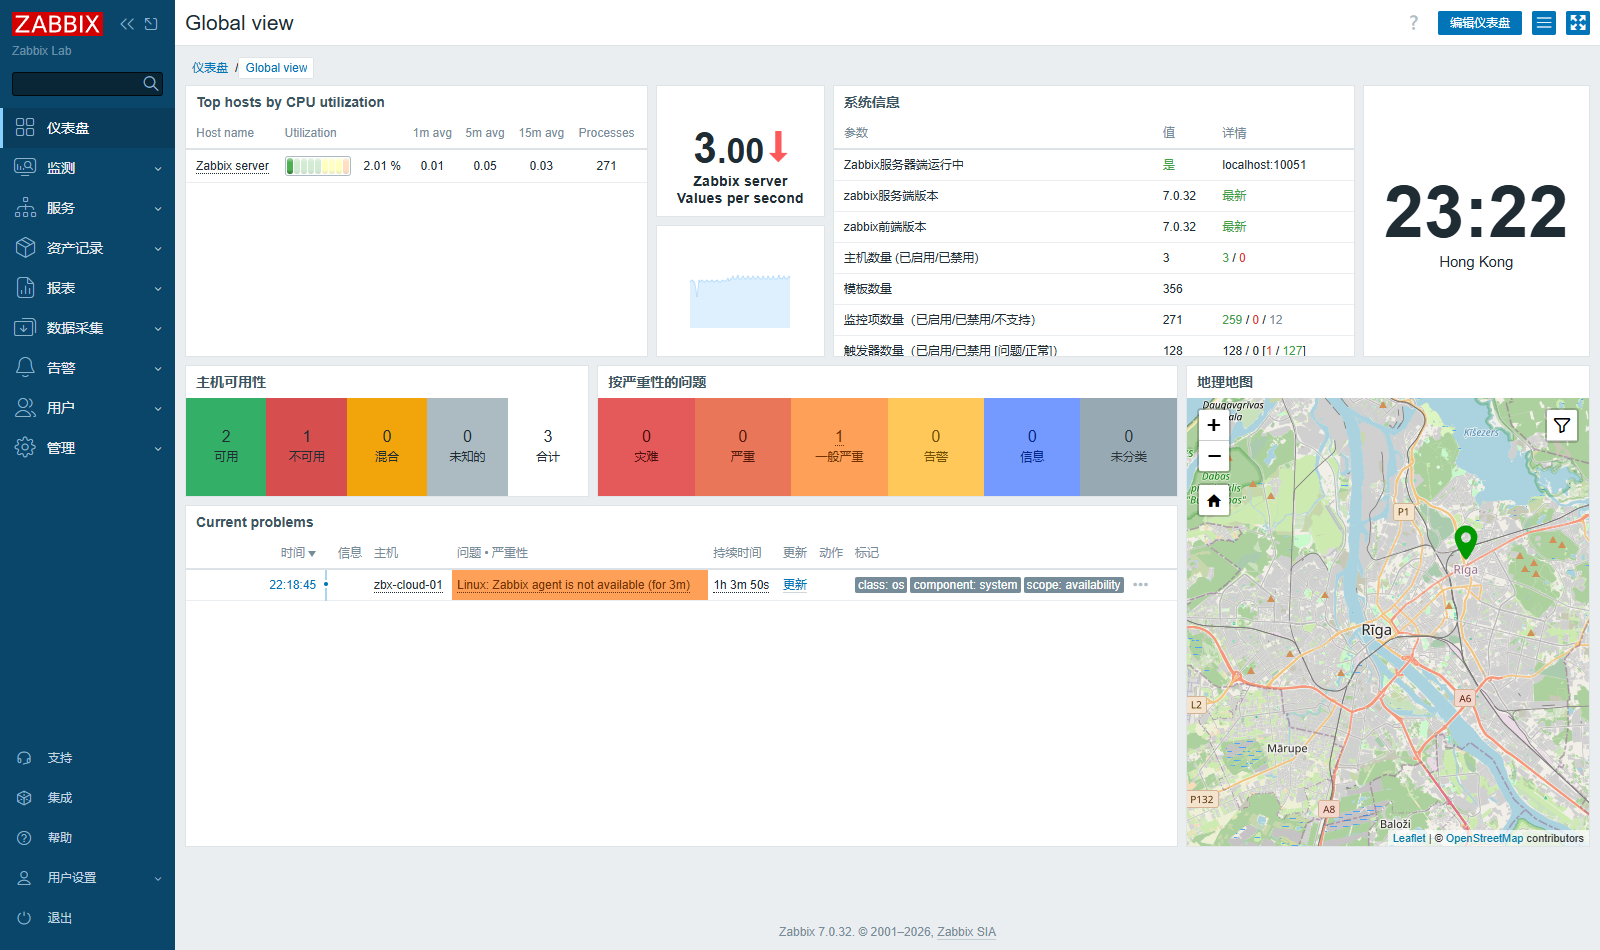
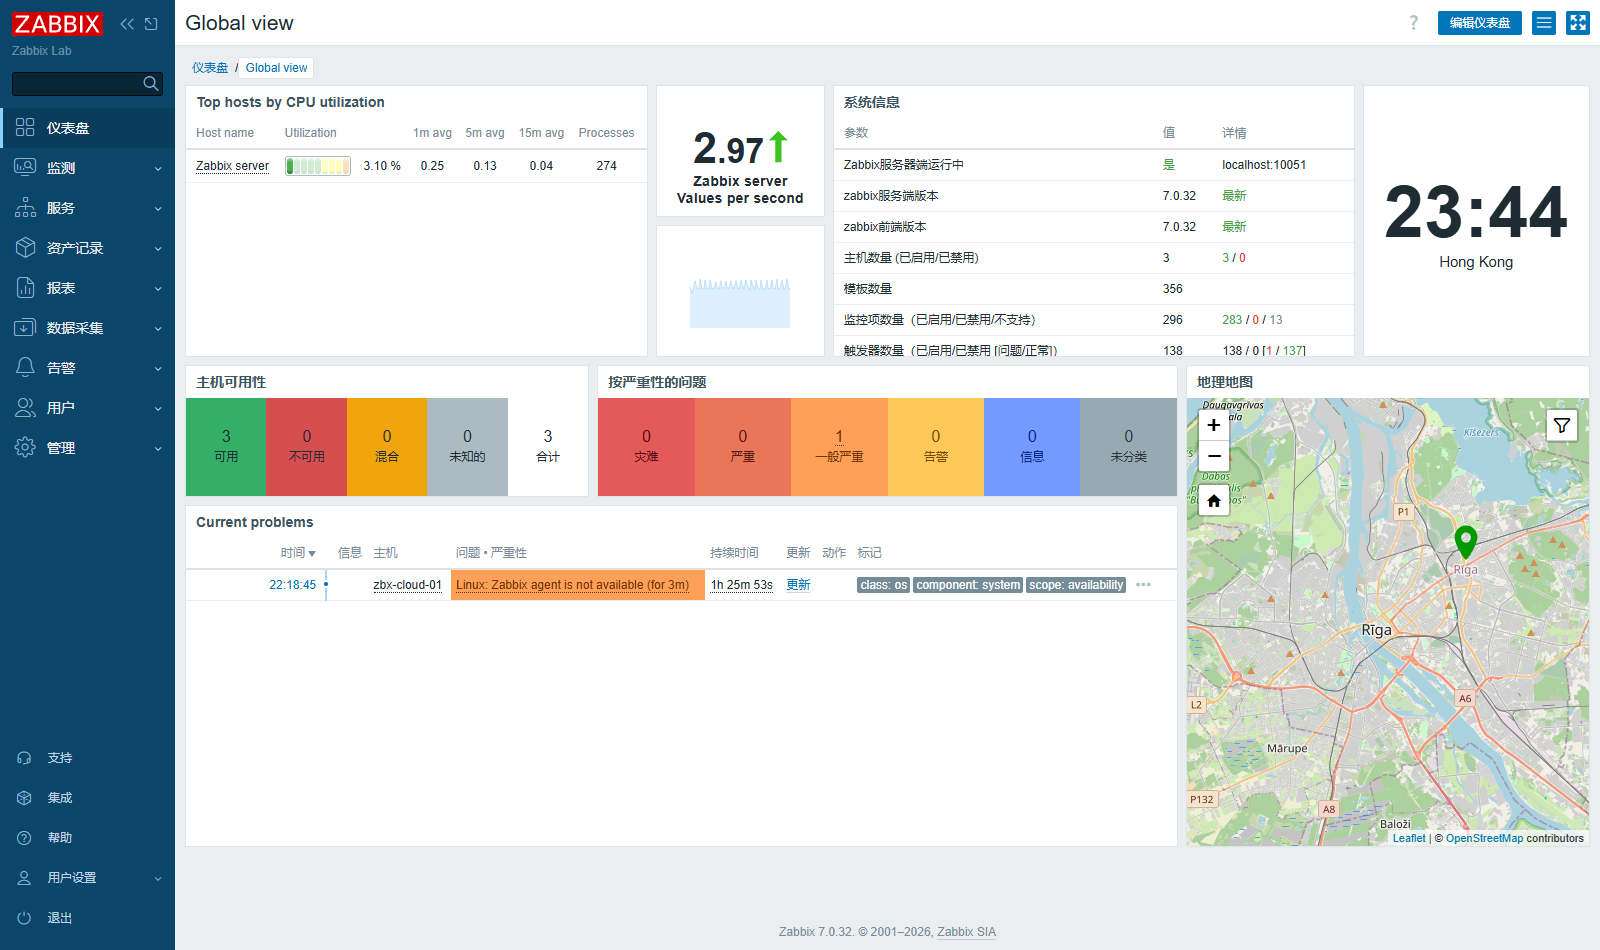
docs: 方案二打通——更新为三台全绿，并重写第 6 章排障案例
实际排障过程（20 分钟）：
1. 六项机器侧检查全过 → 判定平台层拦截
2. 加安全组规则 TCP:10050 → 仍不通（22 通 / 10050 不通）
3. tcpdump 抓到 0 个包 → 证明请求根本没到机器
4. 根因：京东云「轻量云主机」用「防火墙」，不是「安全组」，两套机制不互通
5. 改到轻量云主机 → 防火墙 → 加规则，3 分钟后变绿

文档改动：
- 部署文档 0.4：zbx-cloud-01 → 🟢 绿，68 items，附坑位提醒
- 使用手册 0.2：主机状态同步
- 界面导读第 6 章：重写为完整踩坑过程 + tcpdump 判读表 + 5 条经验
- 重新截图：主机列表/仪表盘/问题页（现为全绿）

diff --git a/docs/Zabbix-界面导读.md b/docs/Zabbix-界面导读.md
@@ -605,6 +605,10 @@ min ( /zbx-node1/vm.memory.util , 5m )  >  {$MEMORY.UTIL.MAX}
 
 ## 6. 拿你环境里的真实告警练一遍
 
+> 这一章记录的是 **2026-10-27 晚上真实发生的一次排障**，从"红"到"绿"用了约 20 分钟。
+> **重要**：下面截图里现在是三台全绿（因为问题已解决），但当时 `zbx-cloud-01` 是红的。
+> 这段过程之所以值得看，是因为**第一次尝试（加安全组）是失败的**——而"失败"才是真实运维的日常。
+
 你现在正好有一条**真实告警**，跟着走一遍就全懂了。
 
 ### 6.1 现状
@@ -641,30 +645,108 @@ timeout 5 bash -c 'cat < /dev/null > /dev/tcp/117.72.187.2/10050' && echo OPEN |
 # 结果：CLOSED
 ```
 
-**第 7 步：分层定位**
+**第 7 步：分层定位（第一轮）**
 
 | 检查项 | 命令 / 位置 | 结果 | 结论 |
 |--------|------------|------|------|
 | 网络通不通 | `ping 117.72.187.2` | 通 | 网络没问题 |
 | 云主机 agent 活着吗 | 在云主机 `systemctl status zabbix-agent2` | active | agent 没问题 |
-| 云主机在听 10050 吗 | 在云主机 `ss -tlnp \| grep 10050` | 在听 | 服务没问题 |
-| **安全组放行了吗** | 云控制台 → 安全组 → 入站规则 | **没有 10050 规则** | ✅ **根因在这** |
+| 云主机在听 10050 吗 | 在云主机 `ss -tlnp \| grep 10050` | `*:10050` | 服务没问题 |
+| 云主机自己防火墙 | `ufw status` / `iptables -L INPUT -n` | inactive / ACCEPT | 没挡 |
+| 云主机公网 IP | `curl ifconfig.me` | `117.72.187.2` | 和 Zabbix 配置一致 |
 
-**结论**：云主机上的 Agent 一切正常，但**云平台的安全组把 10050 端口挡住了**，本地的 Server 连不进去。
+**六项全过**。机器侧完全正常，问题一定在云平台层。
 
-**第 8 步：解决**
+**第 8 步：加了规则，还是不通**（关键转折）
 
-云控制台加一条入站规则：
+第一次在京东云「安全组」里加了一条入站规则：
 
 ```
-协议：TCP    端口：10050    源地址：你家宽出口 IP/32    策略：允许
+协议 TCP   端口 10050   源 0.0.0.0/0   策略 允许
 ```
 
-加完 1 分钟内，`zbx-cloud-01` 就会变绿，告警自动恢复。
+等了两分钟，**依然 CLOSED**。
+
+这时候要做一个很重要的鉴别测试——**换个端口试**：
+
+```bash
+# 从 Zabbix 服务器测云主机的 22 端口（SSH）
+timeout 5 bash -c 'cat </dev/null >/dev/tcp/117.72.187.2/22'    && echo OPEN || echo CLOSED
+# → OPEN
+
+# 测 10050
+timeout 5 bash -c 'cat </dev/null >/dev/tcp/117.72.187.2/10050' && echo OPEN || echo CLOSED
+# → CLOSED
+```
+
+**22 通、10050 不通**，说明网络链路本身没断，是"针对 10050 的那条规则没起作用"。
+
+**第 9 步：抓包，一锤定音**
+
+这一步是整晚最有价值的操作。在云主机上抓包，同时从 Zabbix 服务器发起连接：
+
+```bash
+# 云主机上（先装：apt install tcpdump）
+sudo timeout 25 tcpdump -ni any 'tcp port 10050' -c 20
+
+# 与此同时，在 Zabbix 服务器上
+timeout 4 bash -c 'cat </dev/null >/dev/tcp/117.72.187.2/10050'
+```
+
+结果：
+
+```text
+0 packets captured
+0 packets received by filter
+```
+
+**"0 个包"这句话的含金量极高**，它直接排除了半壁江山：
+
+| 抓到的包 | 说明 | 往哪查 |
+|---------|------|--------|
+| 有 SYN，没有 SYN-ACK | 请求到了机器，机器没回 | 机器上的 iptables / ufw / 服务 |
+| 只有 SYN，回了 RST | 机器收到了，但端口没开 | Agent 没启动或监听地址不对 |
+| **一个包都没有** | **请求在半路就被丢了，根本没到机器** | **云平台：安全组 / 网络 ACL / 防火墙** |
+
+我们是第三种 → **平台层拦截，而且不是刚才加的那个安全组**。
+
+**第 10 步：找到真正的拦截点**
+
+翻遍了控制台才发现：**京东云的「轻量云主机」用的是「防火墙」，不是「安全组」**。
+
+这是两个**完全独立**的机制，规则不互通：
+
+| 产品类型 | 用哪个 |
+|---------|--------|
+| 云服务器（ECS / 标准云主机） | 安全组 |
+| **轻量云主机（ Lighthouse 类）** | **防火墙** ← 我们这台是这种 |
+
+**在安全组里加规则，对轻量云主机完全不生效。** 你在安全组页面能看到规则、显示"已添加"，但流量根本不走那儿。
+
+正确路径：
+
+```text
+控制台 → 轻量云主机 → 选实例 → 防火墙 → 添加规则
+    应用类型：自定义
+    协议：TCP
+    端口：10050
+    源 IP：你的出口公网 IP/32     ← 别用 0.0.0.0/0
+```
+
+**第 11 步：验证**
+
+```text
+TCP 10050              → OPEN          ✅
+zabbix_get agent.ping  → 1             ✅
+Zabbix 主机列表         → 变绿（约 1 分钟后）✅
+监控项                  → 68 个，其中 65 个有真实数据
+```
+
+23:33 加安全组规则（无效）→ 23:41 加防火墙规则 → 23:44:21 变绿。**从"不通"到"绿"只用了 3 分钟，但前面找错地方花了 8 分钟。**
 
 ### 6.3 这个案例教会你什么
 
-**看告警要先分类**。三类问题的排查路径完全不同：
+**① 看告警要先分类**。三类问题的排查路径完全不同：
 
 | 告警类型 | 典型名称 | 从哪里查起 |
 |---------|---------|-----------|
@@ -672,7 +754,18 @@ timeout 5 bash -c 'cat < /dev/null > /dev/tcp/117.72.187.2/10050' && echo OPEN |
 | **资源不够** | High CPU / Memory / FS low | 进程、日志、扩容 |
 | **服务异常** | Service down / Port not listening | 应用日志 |
 
-**"连不上"永远先查三层**：网络（ping）→ 端口（telnet/nc）→ 进程（systemctl）。
+**② "连不上"永远先查三层**：网络（ping）→ 端口（/dev/tcp 或 telnet）→ 进程（systemctl）。
+
+**③ 抓包是网络问题的"金标准"**。所有软件层面的猜测，一抓包全部证伪。
+`0 packets` 和 `有 SYN 无 SYN-ACK` 指向两个完全不同的方向，能省掉大量瞎试。
+
+**④ 云厂商的"防火墙"和"安全组"可能是两套东西**。加完规则不通，第一反应应该是
+"**我是不是改错地方了**"，而不是"规则没生效/云厂商有 bug"。
+去实例详情页看它到底绑的是哪一个。
+
+**⑤ 别图省事开 `0.0.0.0/0`**。Agent 暴露在公网，任何人都能拉你的系统信息；
+以后要是配了 `system.run[]` 这类可执行命令的 Key，等于白送一个远程执行入口。
+家宽 IP 会变，变了回来改一下就好，成本很低。
 
 ---
 

diff --git a/docs/Zabbix-7.0-LTS-安装部署实战.md b/docs/Zabbix-7.0-LTS-安装部署实战.md
@@ -165,12 +165,16 @@ flowchart TB
 |------|------|------|------|
 | `Zabbix server` | `127.0.0.1:10050` | 🟢 **ZBX 绿** | 135 items / 78 triggers |
 | `zbx-node1` | `192.168.174.11:10050` | 🟢 **ZBX 绿** | 75 items / 30 triggers · **方案一完成** |
-| `zbx-cloud-01` | `117.72.187.2:10050` | 🔴 ZBX 红 | 43 items / 15 triggers · **等安全组放行 10050** |
+| `zbx-cloud-01` | `117.72.187.2:10050` | 🟢 **ZBX 绿** | 68 items · **方案二已打通** |
 
 实测数据（zbx-node1）：CPU 0.57%、内存 16.6%、可用内存 1.72 GB、运行 911 秒 —— 说明采的是真实数据，不是占位值。
 
-> **方案二你只需要做一件事**：京东云控制台 → 安全组 → 入站规则 → 添加 `TCP:10050`，源 `203.0.113.45/32`。
-> 云主机侧我已经配好了（`Server=127.0.0.1,203.0.113.45`、`Hostname=zbx-cloud-01`），端口一放行，1 分钟内自动变绿。
+> ✅ **方案二已于 2026-10-27 23:44 打通**（`zbx-cloud-01` 变绿，68 个监控项有真实数据）。
+>
+> **踩到的一个大坑**：京东云**轻量云主机**用的是「**防火墙**」，不是「**安全组**」。
+> 在安全组里加了 10050 规则完全不生效——因为轻量云主机根本不走安全组。
+> 必须在「轻量云主机 → 实例 → 防火墙」里加规则。
+> 判断方法：在云主机上抓包，**一个包都抓不到** = 请求没到机器 = 平台层拦的。
 
 ### 部署完成后的界面
 

diff --git a/docs/Zabbix-使用手册.md b/docs/Zabbix-使用手册.md
@@ -41,7 +41,7 @@
 |--------|-----|------|------|
 | `Zabbix server` | 127.0.0.1 | 🟢 绿 | 服务器自己 |
 | `zbx-node1` | 192.168.174.11 | 🟢 绿 | **第二台虚拟机，我们主要看它** |
-| `zbx-cloud-01` | 公网 IP | 🔴 红 | 云服务器，等安全组放行后变绿 |
+| `zbx-cloud-01` | 公网 IP | 🟢 绿 | 云服务器（京东云），已打通 |
 
 **这篇手册全程用 `zbx-node1` 做例子**——它就是你 VMware 里的第二台 Ubuntu 虚拟机。
 
